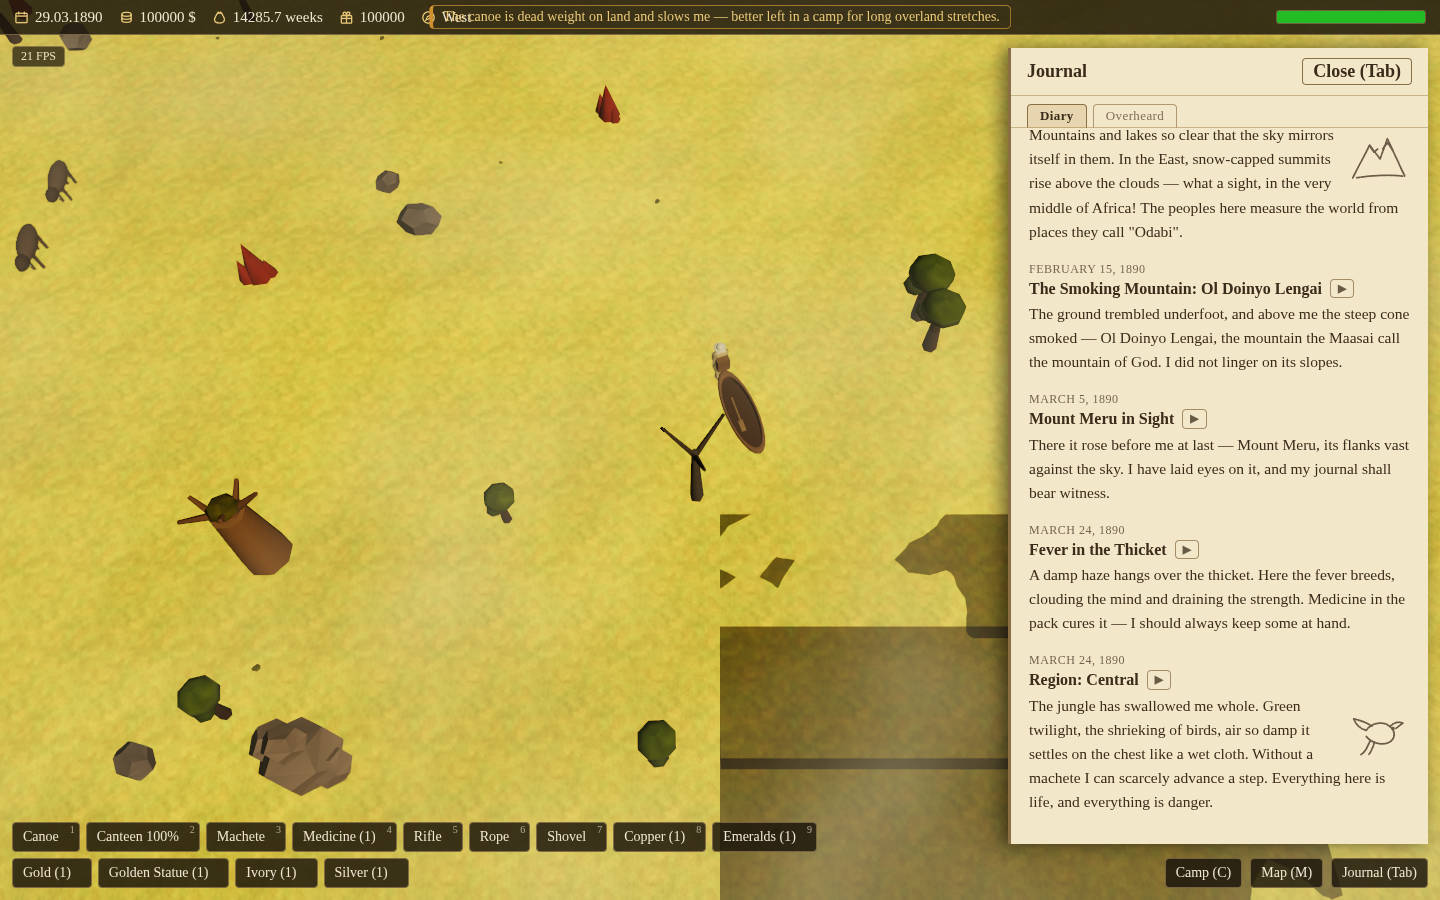
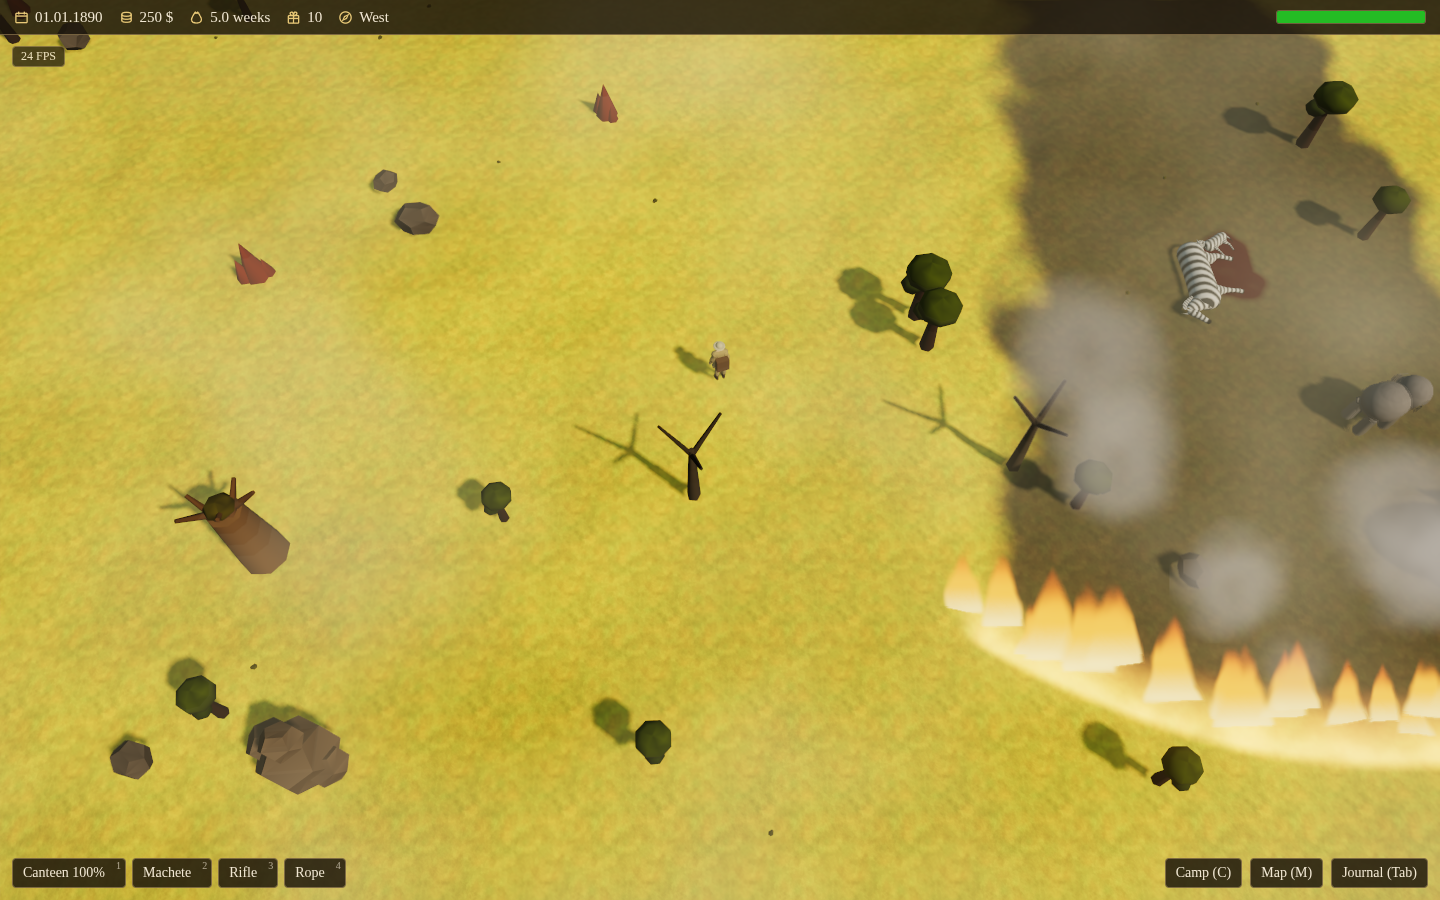
Warm the grass-fire flames and ember band to orange instead of clipped white
Additive tongues at 1.7x and a 2.4x white-gold ember glow over sunlit savanna
saturated to white, so the front read colder than the scar. The tongues now
alpha-blend in yellow-orange to red and the ember band glows orange at 1.3x.

diff --git a/src/scenes/travel/grassFireMaterials.ts b/src/scenes/travel/grassFireMaterials.ts
@@ -38,7 +38,8 @@ function flameMaterial(): THREE.MeshBasicNodeMaterial {
   m.transparent = true
   m.depthWrite = false
   m.side = THREE.DoubleSide
-  m.blending = THREE.AdditiveBlending
+  // Alpha-blended, not additive: added onto sunlit savanna the tongues clip
+  // to white and lose the orange the front must read as (point 321).
   const seed = hash(instanceIndex.toFloat().mul(7.31).add(1.7)).mul(40) as unknown as FloatNode
   const rate = hash(instanceIndex.toFloat().mul(3.17).add(9.1)).mul(0.9).add(2.2) as unknown as FloatNode
   const p = uv()
@@ -50,9 +51,9 @@ function flameMaterial(): THREE.MeshBasicNodeMaterial {
   const body = smoothstep(float(0), float(0.28), width.sub(cx))
   const tip = float(1).sub(smoothstep(float(0.55), float(1.0), p.y.add(n.mul(0.22))))
   const foot = smoothstep(float(0), float(0.08), p.y)
-  // White-gold at the root, orange through the body, a deep red at the tip.
-  const lower = mix(vec3(1.0, 0.92, 0.62), vec3(1.0, 0.5, 0.1), smoothstep(float(0.02), float(0.45), p.y))
-  m.colorNode = mix(lower, vec3(0.75, 0.16, 0.03), smoothstep(float(0.45), float(0.9), p.y)).mul(1.7)
+  // Yellow-orange at the root, orange through the body, a deep red at the tip.
+  const lower = mix(vec3(1.0, 0.72, 0.28), vec3(1.0, 0.42, 0.06), smoothstep(float(0.02), float(0.45), p.y))
+  m.colorNode = mix(lower, vec3(0.75, 0.16, 0.03), smoothstep(float(0.45), float(0.9), p.y)).mul(1.25)
   m.opacityNode = body.mul(tip).mul(foot).mul(FIRE_FLAME_FADE_U).clamp(0, 1)
   return m
 }

diff --git a/src/scenes/travel/burnScarNode.ts b/src/scenes/travel/burnScarNode.ts
@@ -100,7 +100,7 @@ export function burnScarColor(col: unknown, mask: FloatNode) {
   return mix(cc, SOOT.mul(luma.mul(0.6).add(0.4)), mask.mul(d.y).clamp(0, 1))
 }
 
-/** The ember band's emissive glow: white-gold AT the burning line, deepening to
+/** The ember band's emissive glow: orange AT the burning line, deepening to
  *  red over `emberDepth` behind it, flickering by a space-time noise (no
  *  travelling pattern: the noise has no preferred direction along the line). */
 export function burnEmberEmissive() {
@@ -113,6 +113,6 @@ export function burnEmberEmissive() {
     .mul(smoothstep(float(0), float(0.8), b.y.sub(abs(across))))
   const flick = (mx_noise_float(vec3(positionWorld.xz.mul(1.3), time.mul(2.2))) as unknown as FloatNode).mul(0.3).add(0.85)
   const t = clamp(dFront.div(depth), float(0), float(1))
-  const hue = mix(vec3(1.0, 0.82, 0.45), vec3(0.75, 0.16, 0.03), t)
-  return hue.mul(max(inBand.mul(d.w).mul(flick), float(0)).mul(2.4))
+  const hue = mix(vec3(1.0, 0.5, 0.12), vec3(0.75, 0.16, 0.03), t)
+  return hue.mul(max(inBand.mul(d.w).mul(flick), float(0)).mul(1.3))
 }
